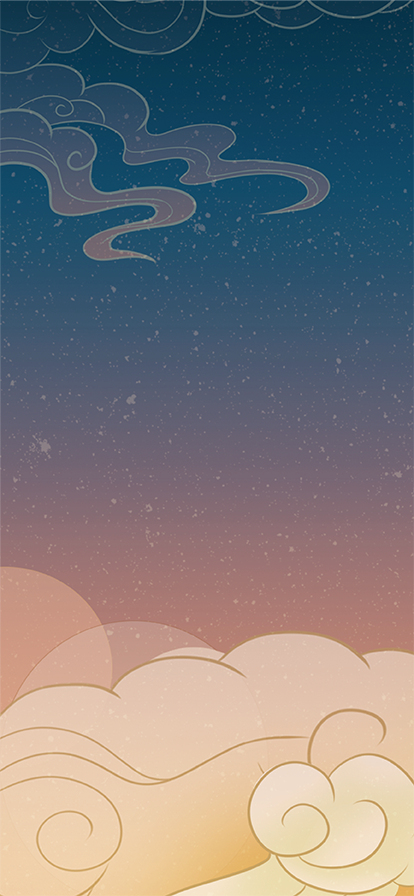
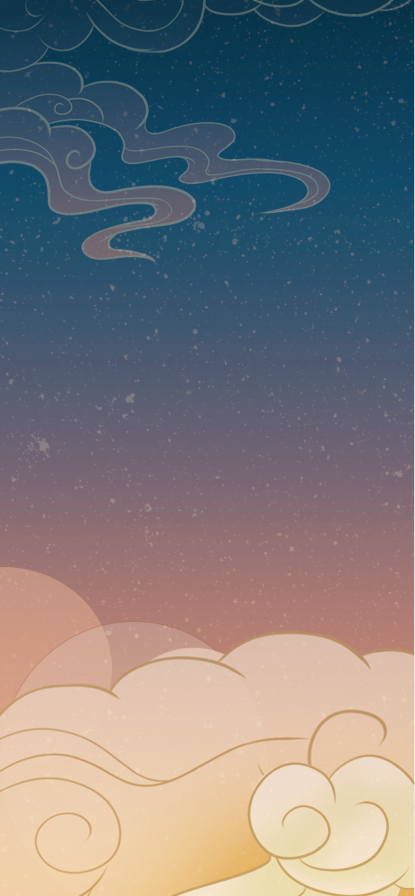
test

diff --git a/src/views/HomeView.vue b/src/views/HomeView.vue
@@ -25,7 +25,7 @@
     height: 100vh;
     /* padding-top: env(safe-area-inset-top);
     padding-bottom: env(safe-area-inset-bottom); */
-    background-image: url(../assets/images/home-bg.png);
+    background-image: url(../assets/images/home-bg2.png);
     background-size: cover;
     background-repeat: no-repeat;
     background-position: center center;
@@ -43,7 +43,7 @@
     height: 100vh;
     /* padding-top: env(safe-area-inset-top);
     padding-bottom: env(safe-area-inset-bottom); */
-    background-image: url(../assets/images/home-btn.png);
+    background-image: url(../assets/images/home-btn2.png);
     background-size: cover;
     background-repeat: no-repeat;
     background-position: center center;

diff --git a/src/views/AboutView.vue b/src/views/AboutView.vue
@@ -87,7 +87,7 @@ export default {
   margin-top: 2.8rem;
   overflow: scroll;
   width: 5.8rem;
-  height: 11rem;
+  height: 10rem;
   scrollbar-width: none;
   -ms-overflow-style: none;
 }
